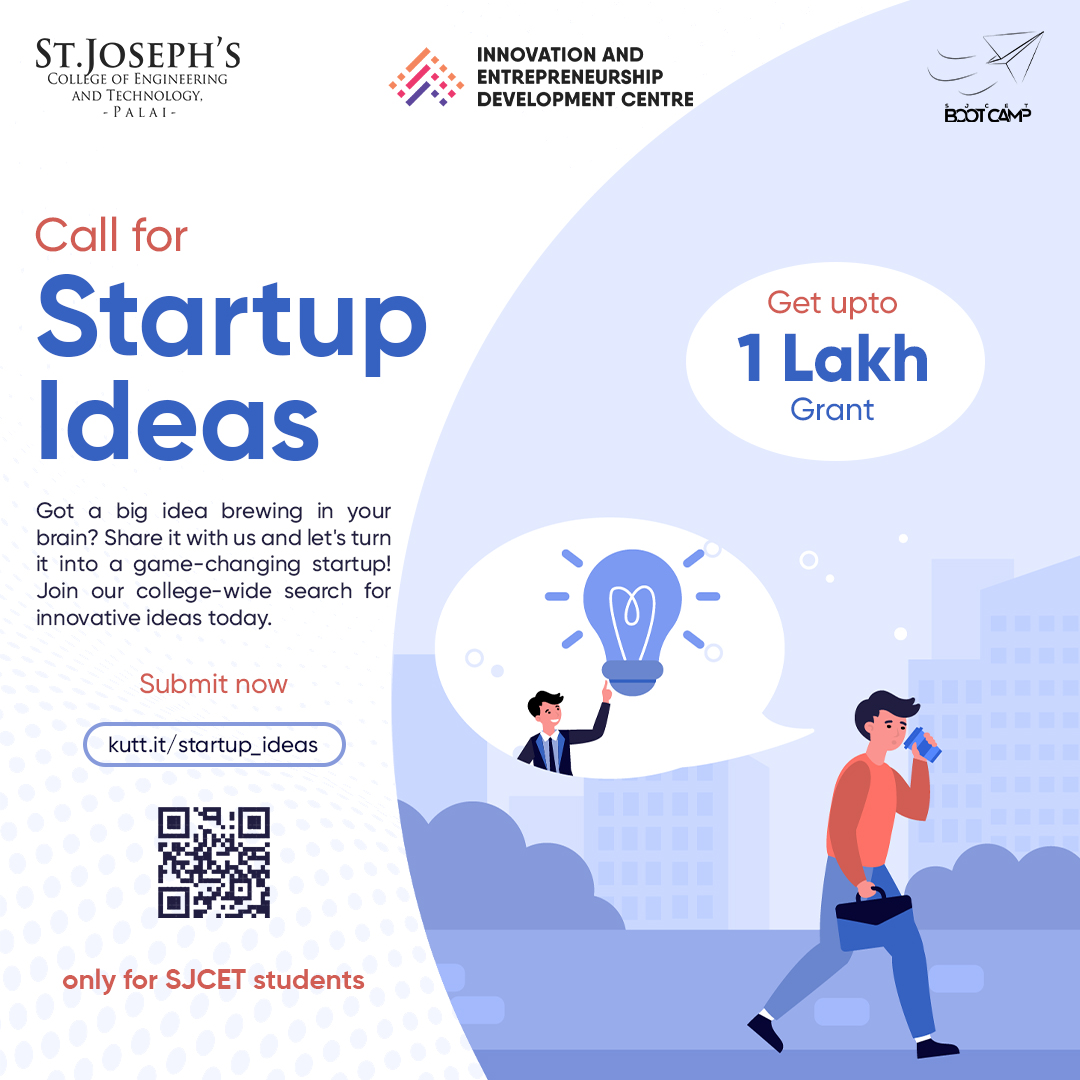
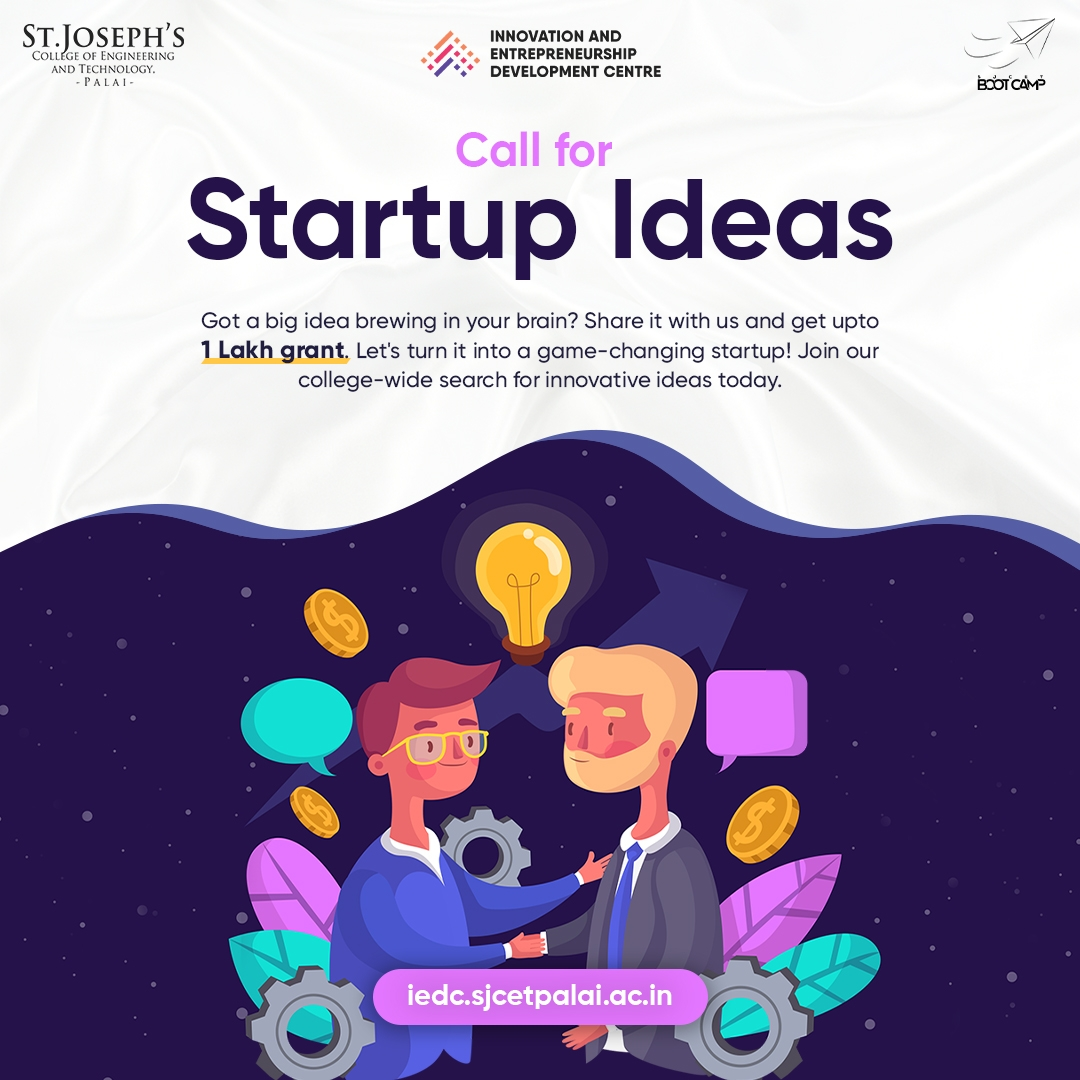
fix: storage location + leads phone number

diff --git a/startup/index.html b/startup/index.html
@@ -18,11 +18,11 @@
 
     <style>
         .greencolor{
-            color: #3662c1;
+            color: #25124a;
         }
         :root {
-            --lightgreen : #7c9af2;
-            --green : #3662c1;
+            --lightgreen : #bcafff;
+            --green : #25124a;
         }
     </style>
 </head>
@@ -37,7 +37,7 @@
         </div>
     <div class="container d-flex flex-column justify-content-center align-items-center p-3">
         <div class="d-flex flex-column gap-2 card shadow-lg showWidth">
-            <img src="/startup/thumbnail.jpg" alt="" class="card-img-top">
+            <img src="/startup/startupnew.jpg" alt="" class="card-img-top">
             <!-- <h2 class="text-black fs-2 fw-bolder card-header"> <span class="greencolor"> <i
                 class="bi bi-cloud-fill"></i></span></h2> -->
                 <p class="card-body">
@@ -191,14 +191,14 @@
                                     <input type="file" id="eventIMG" name="myFile" class="drop-zone__input" accept=".jpg, .jpeg, .png, .pdf" required>
                                 </div>
                             </div>
-                    <div class="w-100 d-flex align-items-center gap-2">
+                    <!-- <div class="w-100 d-flex align-items-center gap-2">
                         <label>I AGREE TO <a class="greencolor" href="http://">TERMS & CONDITIONS</a> </label><input type="checkbox" name="terms" id="terms" onchange="checkBOX(this)">
-                    </div>
+                    </div> -->
                     <div class="w-100 d-flex gap-2 justify-content-center mt-4">
                             <button class="mybtn btn flex-grow-1" type="reset">
                                 <span>RESET <i class="bi bi-trash-fill"></i></span>
                             </button>
-                            <button id="btnSubmit" class="btn-success btn flex-grow-1" type="submit" disabled>
+                            <button id="btnSubmit" class="btn-success btn flex-grow-1" type="submit" >
                                 <span>SUBMIT <i class="bi bi-chevron-right"></i></span>
                             </button>
                     </div>

diff --git a/startup/formSubmit.js b/startup/formSubmit.js
@@ -28,6 +28,7 @@ const takeMemeberData = (newURL)=>{
     m1 = {
                 Name:SUBMITFORM.leaderName.value,
                 Email:SUBMITFORM.leaderEmail.value,
+                Phone:SUBMITFORM.leaderPhone.value,
         }
     m2 = {
                 Name:SUBMITFORM.member2Name.value,
@@ -73,7 +74,7 @@ SUBMITFORM.addEventListener('submit',e => {
         e.preventDefault();
         openSpinner();
         file_name = (SUBMITFORM.teamName.value).replace(/ +/g,"");
-        uploadFile("EVENTS", file, file_name, SUBMITFORM.teamName.value)
+        uploadFile("startup", file, file_name, SUBMITFORM.teamName.value)
         .then(newURL => {
             takeMemeberData(newURL);
             console.log(newURL);
